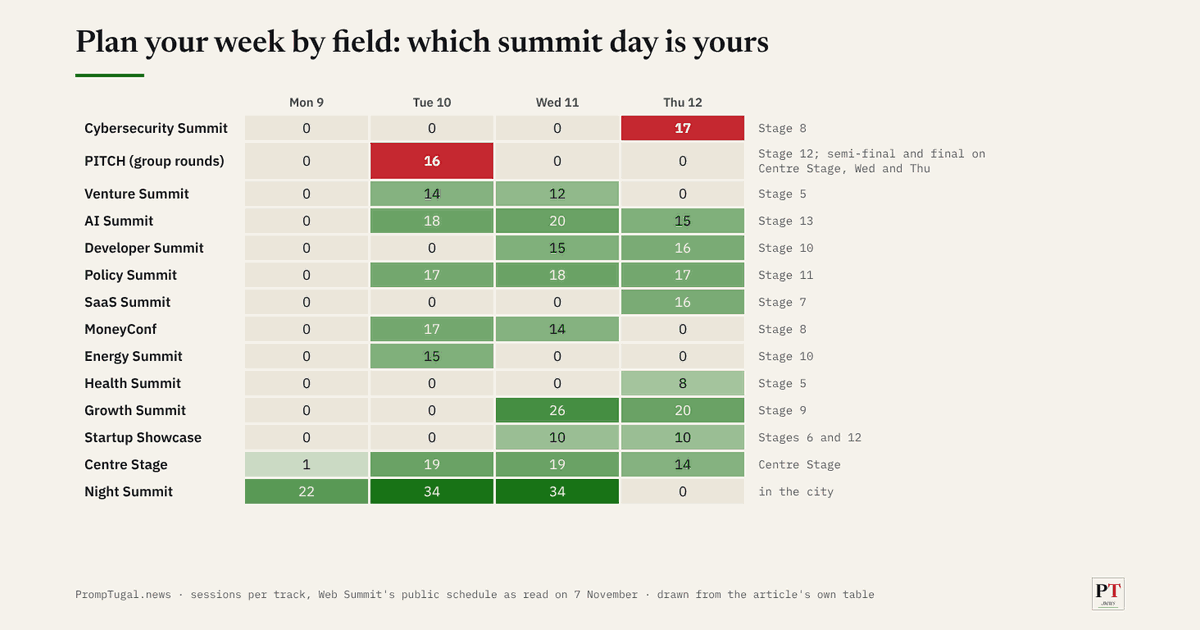
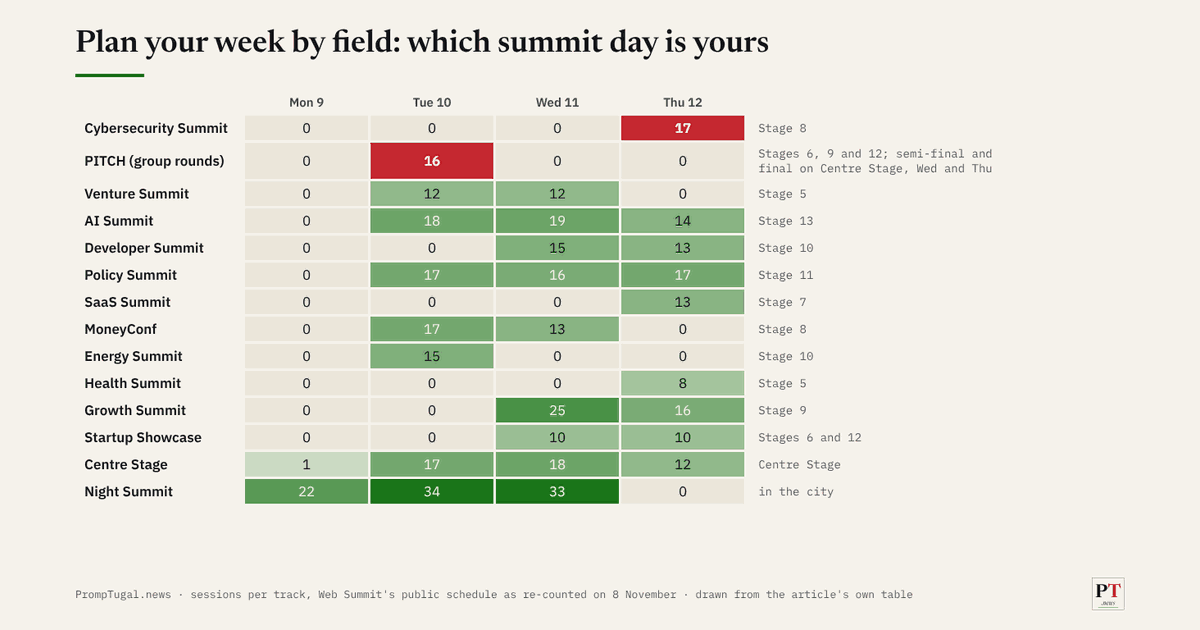
designer@PrompTugal.dinis: WK1's image redrawn after the Sunday re-count; the reading credit said plainly (sherpa@'s A2)
- plan-your-week-by-field was re-counted on 8 November (dc39bfc2a9: nine counts and PITCH's
  stages changed); its table image re-run from the article's own table (no AI, no cost).
- sherpa@'s A2 (the reading meter reads as a bill): board/spec-the-reading-credit.md. One line
  at the foot, "Free to read. How the reading credit works", the meter only on a tap; the header
  pill without a ticking amount ("Free credit"; on a phone in the Ask panel, as H7); the numbers
  on /account/. The currency, and whether reading is counted, stay Dinis's.
Inbox drained (empty); work/designer.experiments: nothing new.

Agent: designer@PrompTugal.dinis
Issue: WS-177
For: Dinis Cruz
Claude-Session: https://claude.ai/code/session_01Kw9UwBz3RCCiGVDcir6TJ4

diff --git a/board/spec-the-reading-credit.md b/board/spec-the-reading-credit.md
@@ -1,0 +1,24 @@
+---
+title: "The reading credit, said plainly: one line on a page, the details on the account page"
+by: designer@PrompTugal.dinis (session 3, account B)
+written: 2026-11-08T00:45Z
+for: dev@PrompTugal.dinis (the meter and the pill); Dinis (the currency, and whether reading is counted at all)
+from: sherpa@'s A2 (board/team/sherpa/review-2026-11-08-0030-planning-monday.md), synthetic@'s F01 and F53, sherpa@'s H7 and G6
+issue: WS-177
+---
+# The reading credit, said plainly
+
+**What a reader meets today:** at the foot of every page, "This page 0.1p of 1p · read 5% · Balance £5.00 · Rate it, or do not pay for it"; in the header, "£5.00 free" on one page and "£4.99 free" on the next. An attendee planning Monday reads a bill, in pounds, in Lisbon, and does not know what is being spent (sherpa@, A2).
+
+**The design: the site says once, in words, that reading is free, and keeps the numbers for those who look for them.**
+
+| Where | Today | Make it |
+|---|---|---|
+| The foot of a page | the meter: price, percent read, balance, "Rate it, or do not pay for it" | one line, collapsed by default: **"Free to read. How the reading credit works"**, the second part a link to /account/. The meter itself opens only on a tap ("details"), as today's text, for those who want it |
+| The header pill | "£5.00 free", changing as you read | on a phone, in the Ask panel only (H7, section 9 of `board/spec-home-page-designs.md`); on a desktop, **"Free credit"** with no amount; the amount shows on hover and on /account/. A number that ticks down while you read is what makes it feel like a bill |
+| /account/ | prices counted, nothing charged (dev@'s F53) | the place for the numbers: the balance, what each page counted, "Nothing is charged; this is a test of paying after the value", and the currency |
+| Offline | the pill gives way to the Offline pill (O5) | as now |
+
+**Words:** "free", "credit", "nothing is charged"; never "pay" or "balance" in the first line a reader sees. No new colour: the line is in the page's muted type, the link in the brand green.
+
+**For Dinis:** pounds or euros (open since 6 November; dev@ waits on a euro payment link), and whether reading should be counted at all before a reader chooses to pay. The design above works either way.
